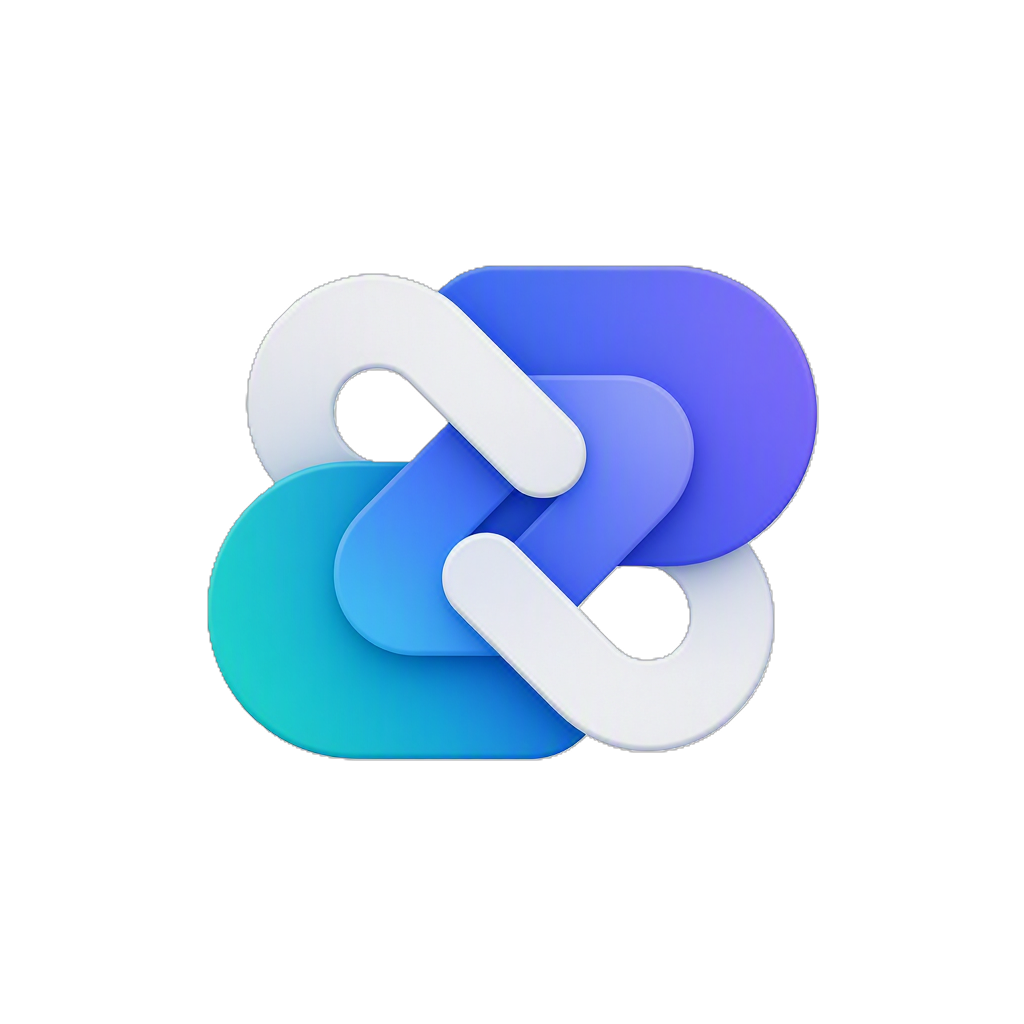
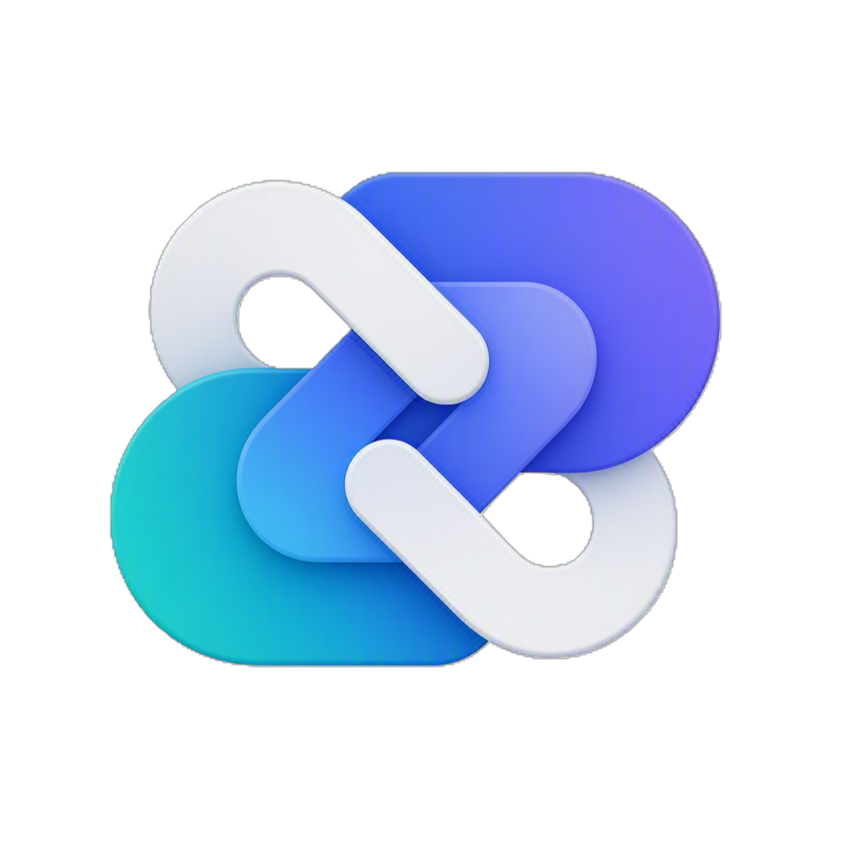
Commit pending session changes
- GitHubSignIn: user dropdown menu for sign-out (Menu/MenuTrigger/MenuPopover)
- agentweaver.png: updated logo asset
- .squad: merge decisions inbox, update agent history

Changed region(s): [[0.1231, 0.1846, 0.8615, 0.8], [0.7077, 0.6769, 0.7385, 0.7077], [0.5846, 0.6154, 0.6154, 0.6462]]

diff --git a/apps/web/src/components/GitHubSignIn.tsx b/apps/web/src/components/GitHubSignIn.tsx
@@ -1,21 +1,40 @@
 import { useEffect, useState } from 'react';
 import {
-  Button,
+  Menu,
+  MenuTrigger,
+  MenuPopover,
+  MenuList,
+  MenuItem,
   Spinner,
   Text,
   makeStyles,
   tokens,
 } from '@fluentui/react-components';
+import { SignOutRegular } from '@fluentui/react-icons';
 import { apiClient } from '../api/apiClient';
 import { ApiError } from '../api/client';
 import type { GitHubAuthStatus } from '../api/types';
 
 const useStyles = makeStyles({
-  root: {
-    position: 'relative',
+  trigger: {
     display: 'flex',
     alignItems: 'center',
     gap: tokens.spacingHorizontalS,
+    cursor: 'pointer',
+    padding: `${tokens.spacingVerticalXS} ${tokens.spacingHorizontalS}`,
+    borderRadius: tokens.borderRadiusMedium,
+    border: 'none',
+    backgroundColor: 'transparent',
+    ':hover': {
+      backgroundColor: tokens.colorNeutralBackground1Hover,
+    },
+  },
+  avatar: {
+    width: '28px',
+    height: '28px',
+    borderRadius: '50%',
+    objectFit: 'cover',
+    flexShrink: '0',
   },
 });
 
@@ -70,26 +89,26 @@ export function GitHubSignIn() {
     return <Spinner size="extra-tiny" aria-label="Loading GitHub auth status" />;
   }
 
-  if (error) {
+  if (error || status !== 'signed_in') {
     return null;
   }
 
-  if (status === 'signed_in') {
-    return (
-      <div className={styles.root}>
-        {avatarUrl && (
-          <img
-            src={avatarUrl}
-            alt={login ?? ''}
-            style={{ width: 28, height: 28, borderRadius: '50%', objectFit: 'cover' }}
-          />
-        )}
-        <Text>{login}</Text>
-        <Button appearance="subtle" onClick={() => void handleSignOut()}>Sign out</Button>
-      </div>
-    );
-  }
-
-  return null;
+  return (
+    <Menu>
+      <MenuTrigger disableButtonEnhancement>
+        <button className={styles.trigger} type="button">
+          {avatarUrl && <img src={avatarUrl} alt={login ?? ''} className={styles.avatar} />}
+          <Text>{login}</Text>
+        </button>
+      </MenuTrigger>
+      <MenuPopover>
+        <MenuList>
+          <MenuItem icon={<SignOutRegular />} onClick={() => void handleSignOut()}>
+            Sign out
+          </MenuItem>
+        </MenuList>
+      </MenuPopover>
+    </Menu>
+  );
 }
 